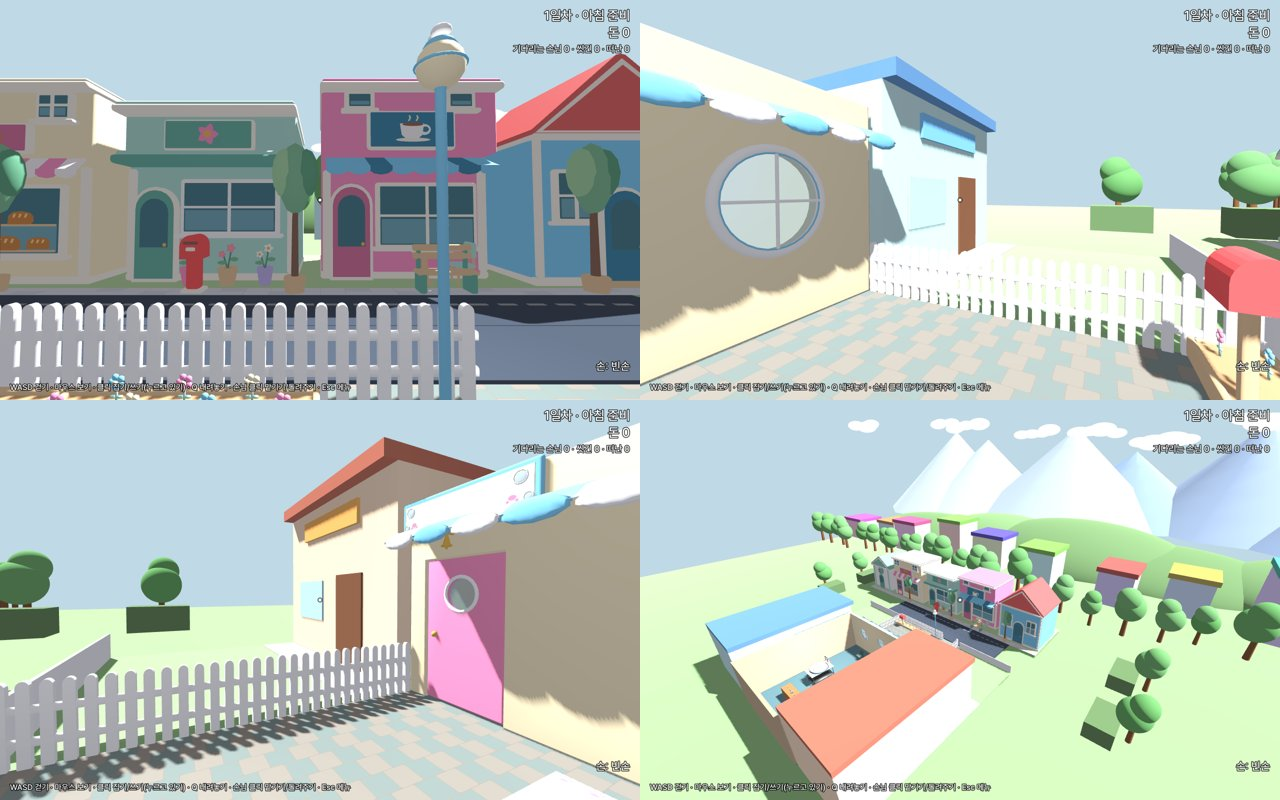
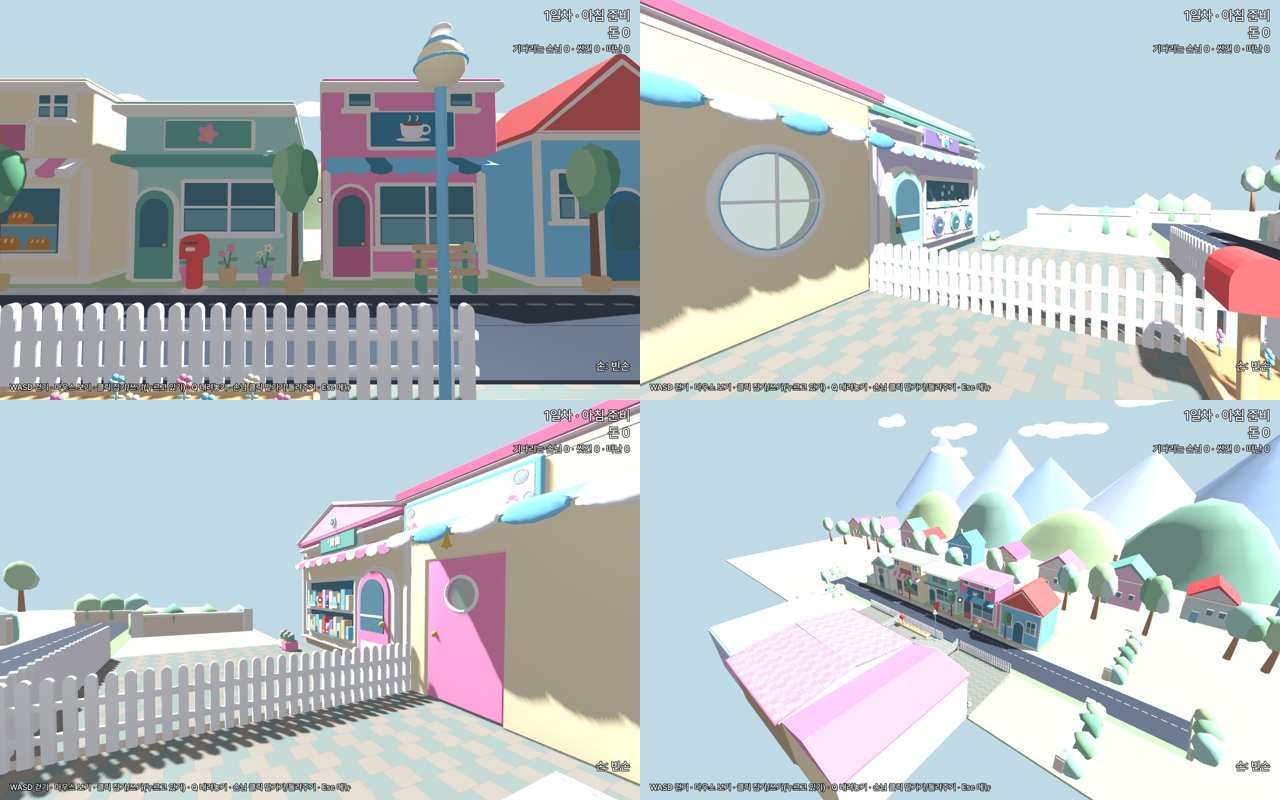
받은 town_side·town_far.glb (#159) 에 맞춰 테스트: 받은 그래픽 범위 + 임시 모형 따로
Claude-Session: https://claude.ai/code/session_011AhoxvjuUAeZ5SvtvgroTK

diff --git a/docs/status/dev.md b/docs/status/dev.md
@@ -3,7 +3,7 @@
 **지금 하는 일**: 대표 요청 (2026-11-11) 작은 PR 8개 순서대로 — ① 물·드라이 긴 봉 (#154 병합) → ② 천장 (#155) → ③ 조개 목욕통 (#156) → ④ 실제로 자르는 미용 (#157) → ⑤ 사람 걸음 자세 → ⑥ 가게 밖 빈 곳 (`dev/v4-town-sides`) → ⑦ 도구 소리 → ⑧ [그림체 비교] 빠른 확인.
 
 **끝낸 일**:
-- 가게 밖 빈 곳 채우기 (대표 요청 ⑥, 기획 ART_SLOTS 4-8 좌표, `scripts/v4/fp_town_wide.gd`): 양옆 이웃 2채 — 세탁소 (−Z, 건물 x −4~4.2 · z −3.7~−8.5 · 높이 3.5) · 문구점 (+Z, z 3.7~8.5 · 높이 3.8, 손님 길 z 2.6 은 비움), 정면 +X, 앞 보도·앞마당·울타리 (x ~9). 먼 배경 — 잔디 판 (y −0.25, z ±40) · 찻길 양 끝 (z ±14 너머 길 옆 덤불·나무, 트럭 길은 비움) · 나무 띠 (x 20~23) · 먼 집 (x 25~32) · 낮은 언덕 (x 35~45). 하늘 — 먼 산 (x 75~95) · 구름 띠 (높이 16~26). 모두 충돌 없음, 먼 것은 그림자 없음. 교체: `assets/models/outside/town_side_a.glb` · `town_side_b.glb` · `town_far.glb` (방 좌표 그대로). 새 테스트 `test_v4_town_wide`. 스크린샷 `docs/dev/screenshots/v4_town_wide.jpg`
+- 가게 밖 빈 곳 채우기 (대표 요청 ⑥, 기획 ART_SLOTS 4-8 좌표, `scripts/v4/fp_town_wide.gd`): 양옆 이웃 2채 — 세탁소 (−Z, 건물 x −4~4.2 · z −3.7~−8.5 · 높이 3.5) · 문구점 (+Z, z 3.7~8.5 · 높이 3.8, 손님 길 z 2.6 은 비움), 정면 +X, 앞 보도·앞마당·울타리 (x ~9). 먼 배경 — 잔디 판 (y −0.25, z ±40) · 찻길 양 끝 (z ±14 너머 길 옆 덤불·나무, 트럭 길은 비움) · 나무 띠 (x 20~23) · 먼 집 (x 25~32) · 낮은 언덕 (x 35~45). 하늘 — 먼 산 (x 75~95) · 구름 띠 (높이 16~26). 모두 충돌 없음, 먼 것은 그림자 없음. 교체: `assets/models/outside/town_side_a.glb` · `town_side_b.glb` · `town_far.glb` (방 좌표 그대로). #159 로 받은 town_side_a·b·town_far.glb 가 들어와 지금은 그 그래픽 + 하늘 (산·구름 띠, 코드 모형). 새 테스트 `test_v4_town_wide` (받은 그래픽 범위 + 임시 모형 따로). 스크린샷 `docs/dev/screenshots/v4_town_wide.jpg`
 - 가게 천장 (대표 요청 ②, 기획 ART_SLOTS 4-8 좌표, `scripts/v4/fp_ceiling.gd`): 벽지보다 밝은 크림색 천장판 (아랫면 y 3.0, x ±4.1, z ±3.6) + 나무 들보 3줄 + 벽 둘레 나무 띠 + 기본 조명 기구 (천장에 붙은 둥근 등, (0.6, 3, 1.4), 빛 포함) + 조명 고리 (0, 3, −1.6) + 밖에서 보이는 맞배지붕 (용마루 y 3.8). 꾸미기 조명은 이제 조명 고리에 매달림 (−1.2 → −1.6, 들보 아래). 그림자를 드리우지 않아 방 밝기는 그대로, 충돌 없음. 교체: `assets/models/shop/ceiling.glb` (방 좌표 그대로, 원점 = 방 바닥 가운데, `Bulb` 가 있으면 거기에 빛). 새 테스트 `test_v4_ceiling`. 스크린샷 `docs/dev/screenshots/v4_ceiling_room.jpg`·`v4_ceiling_up.jpg`·`v4_ceiling_roof.jpg`
 - 물·드라이 '긴 봉' 고치기 (대표 요청 ①, `scripts/sim/wash_dog.gd`): 샤워기 물줄기를 늘인 원기둥 대신 **물방울 입자** — 노즐 구멍 7개 (여러 가닥) 에서 나간 방울이 중력을 받아 포물선으로 0.22초 날아가 겨눈 곳에 닿아 사라짐 (방울은 날아가는 방향으로 늘어짐). 닿는 곳: 튀는 물보라 + 털을 타고 흘러내리는 물 + 젖은 털 (원래 셰이더). 드라이기: 막대 없이 옅은 하늘빛 바람 줄무늬 (가까울수록 진하고 빠름) + 닿는 곳 털이 날리고 (털 입자) 흔들림 (`blow`). 겨눔 표시는 닿는 곳 작은 원 하나 (지름 약 5 cm). 단계 차이 유지: 단계마다 물줄기가 넓어지고 (구멍 원·퍼짐), 마지막 단계는 방울마다 무지개 색. V3 작업대도 같은 함수라 같이 바뀜. 새 테스트 `test_v4_water`. 스크린샷 `docs/dev/screenshots/v4_water_shower.jpg`·`v4_water_shower_final.jpg`·`v4_water_dryer.jpg`
 - 찻길 건너편 이웃 건물 6개 (대표 요청, `scripts/v4/fp_outside.gd` `_build_town`): 빵집·꽃집·카페·집 둘 + 거리 소품 (보도·가로등·잔디). 배경이라 충돌 없음 (마당 끝 막이로 원래 못 감), 트럭 길 (x 9.7~11.5) 과 찻길은 비움. 지금은 임시 상자 건물 (벽 + 지붕 + 가게 쪽 문·창), `assets/models/outside/town_bakery·town_flower·town_cafe·town_house_a·town_house_b·town_street_props.glb` 가 오면 마당과 같은 방 좌표 그대로 원점에 놓임 (앞면 −X). 새 테스트 `test_v4_town`. 스크린샷 `docs/dev/screenshots/v4_town.jpg`
